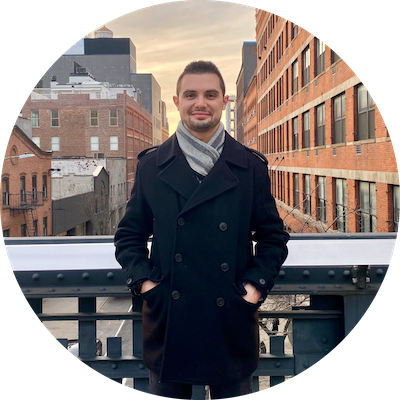
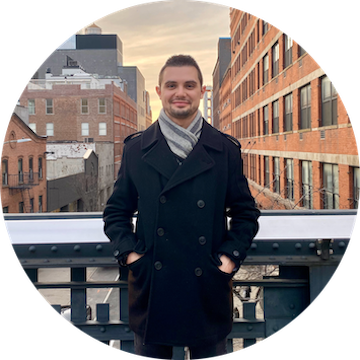
mods to  all pages are fully mobie friendly

diff --git a/src/components/Footer.jsx b/src/components/Footer.jsx
@@ -3,6 +3,9 @@ import Container from 'react-bootstrap/Container';
 import Row from 'react-bootstrap/Row';
 import Col from 'react-bootstrap/Col';
 
+// import LinkedIn from '../assets/images/LinkedInIcon.png';
+// import GitHub from '../assets/images/GitHubIcon.png';
+
 function Footer() {
 
     return (
@@ -12,6 +15,12 @@ function Footer() {
                     <Col className="p-0 d-flex" md={3} sm={12}>
                         My Portfolio Site
                     </Col>
+                    {/* <Col className="p-0 d-flex" md={3} sm={12}>
+                        <img src={LinkedIn} alt='LinkedIn Icon' />
+                    </Col>
+                    <Col className="p-0 d-flex" md={3} sm={12}>
+                        <img src={GitHub} alt='GitHub Icon' />
+                    </Col> */}
                     <Col className="p-0 d-flex justify-content-end" md={3} sm={12}>
                         Created by Robert Kane, Jr.
                     </Col>

diff --git a/src/pages/ContactPage.jsx b/src/pages/ContactPage.jsx
@@ -70,7 +70,7 @@ class ContactPage extends React.Component {
                 <Hero title={this.props.title} />
 
                 <Content>
-                    <Form className='py-5 my-5' onSubmit={this.handleSubmit}>
+                    <Form className='py-5 my-5 px-0 mx-0' onSubmit={this.handleSubmit}>
                         <Form.Group>
                             <Form.Label htmlFor="full-name">Full Name</Form.Label>
                             <Form.Control id="full-name" name="name" type="text" value={this.state.name} onChange={this.handleChange} />

diff --git a/src/pages/AboutPage.jsx b/src/pages/AboutPage.jsx
@@ -17,7 +17,7 @@ function AboutPage(props) {
             <Container fluid={true}>
                 <Row className="justify-content-center p-0">
 
-                    <img src={MyPhoto} className='MyPhoto pb-5' alt='Me' />
+                    <img src={MyPhoto} className='pb-5 mb-3 m-0' alt='Me' />
 
                     <Content>
                         <p>Hey there! I'm Bob Kane, a full-stack web developer based out of Brooklyn, NY with a background in finance and marketing.
